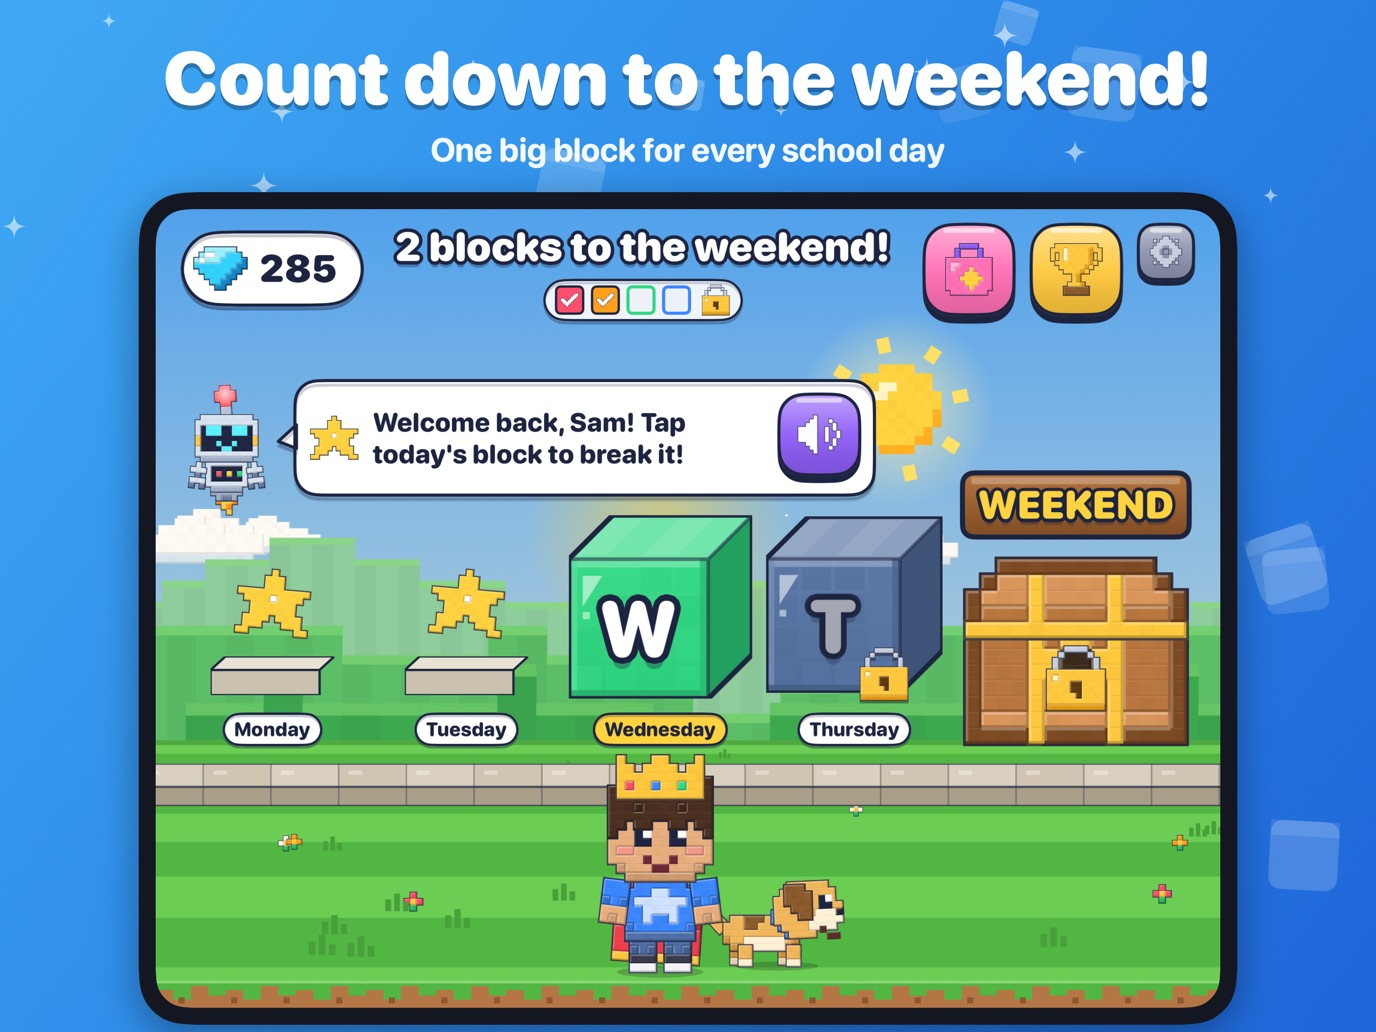
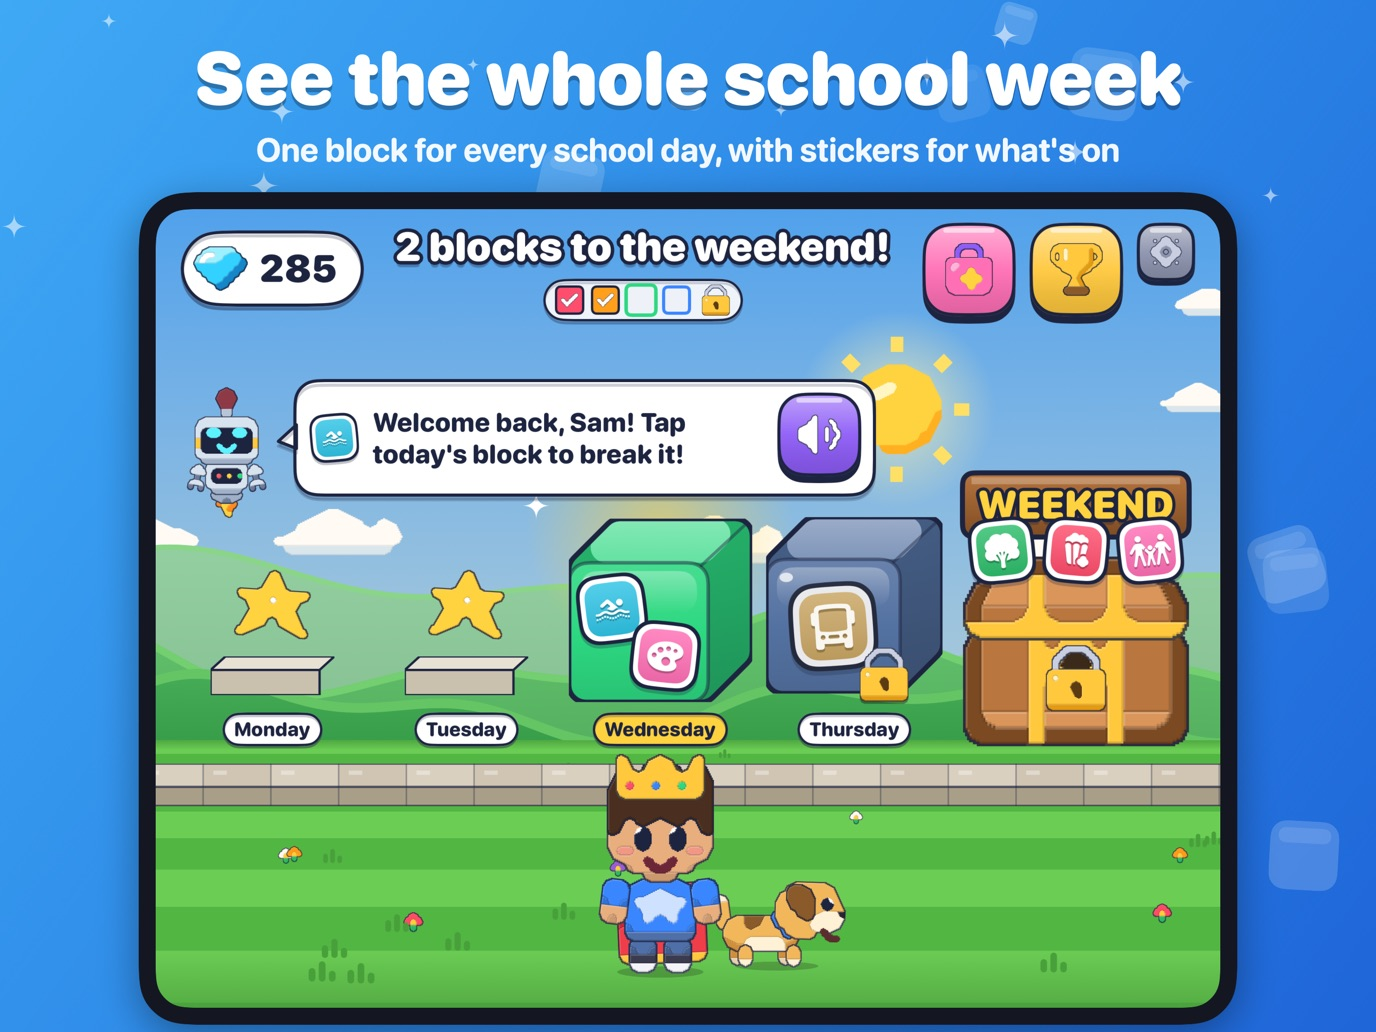
Update the site for Break the Week 1.1
Week planner, Zaki the robot coach, English and Arabic, new icon and screenshots.
The privacy policy now lists the planner's stickers among the data kept on the iPad.

diff --git a/index.html b/index.html
@@ -4,7 +4,7 @@
   <meta charset="utf-8">
   <meta name="viewport" content="width=device-width, initial-scale=1">
   <title>Break the Week</title>
-  <meta name="description" content="Break the Week is a weekend countdown for kids on iPad: smash one giant block every school day, collect gems and unlock a weekend party.">
+  <meta name="description" content="Break the Week is a visual school week for kids on iPad: one block for every school day, picture stickers for what's on, Zaki the robot reads it all aloud in English or Arabic, and the weekend chest opens when the week is done.">
   <link rel="icon" type="image/png" href="images/icon.png">
   <link rel="apple-touch-icon" href="images/icon.png">
   <link rel="stylesheet" href="style.css">
@@ -13,7 +13,7 @@
   <header class="hero">
     <img class="icon" src="images/icon.png" alt="Break the Week app icon" width="128" height="128">
     <h1>Break the Week</h1>
-    <p class="tagline">&ldquo;How many days until the weekend?&rdquo; Now kids can see the answer: one big block for every school day, and they get to smash it.</p>
+    <p class="tagline">&ldquo;Is it the weekend yet? What&rsquo;s happening at school today?&rdquo; Now kids can see the answer, hear it and tap it.</p>
     <nav class="top">
       <a href="support.html">Support</a>
       <a href="privacy.html">Privacy Policy</a>
@@ -22,24 +22,24 @@
 
   <main>
     <section>
-      <h2>A weekend countdown kids can play</h2>
-      <p>Each school day is a big, colorful voxel block on the Weekend Road. After school, your child grabs the golden Star Pick and taps today&rsquo;s block: it cracks, wobbles and shatters into a shower of cubes and gems. When the last block is gone, the weekend treasure chest bursts open with fireworks and a dance party.</p>
+      <h2>A visual school week for young children</h2>
+      <p>Every school day is a big, glossy block on the Weekend Road, with picture stickers for what happens that day: swimming, library, sports kit, a school trip. After school, your child taps today&rsquo;s block with the Star Hammer until it smashes into sparkles. When the last block is gone, the weekend chest opens with fireworks, a trophy and the family&rsquo;s weekend plans.</p>
       <div class="grid">
         <div class="feature blue">
-          <h3>See the week</h3>
-          <p>One block per school day shows how many days are left. A new row drops from the sky every week.</p>
-        </div>
-        <div class="feature orange">
-          <h3>Smash today&rsquo;s block</h3>
-          <p>Four taps, a big crash and flying gems. Everyone cheers.</p>
-        </div>
-        <div class="feature purple">
-          <h3>Unlock the weekend</h3>
-          <p>Fireworks, a treasure chest, Ember the baby dragon and a dance party.</p>
+          <h3>See the whole week</h3>
+          <p>One block per school day shows how many are left. A new row drops from the sky every week.</p>
         </div>
         <div class="feature green">
-          <h3>No reading needed</h3>
-          <p>Bolt the robot coach reads every message aloud, and there&rsquo;s a big repeat button.</p>
+          <h3>Plan it with stickers</h3>
+          <p>32 picture stickers for school days and weekends. Day stickers repeat like a timetable.</p>
+        </div>
+        <div class="feature purple">
+          <h3>Zaki reads it aloud</h3>
+          <p>A friendly robot coach speaks every message, with a big repeat button, for kids who can&rsquo;t read yet.</p>
+        </div>
+        <div class="feature orange">
+          <h3>English and العربية</h3>
+          <p>Fully bilingual: the app, the voice and the weekday names follow your iPad&rsquo;s language.</p>
         </div>
       </div>
     </section>
@@ -47,20 +47,21 @@
     <section>
       <h2>Screenshots</h2>
       <div class="shots">
-        <img src="images/01-home.jpg" alt="The Weekend Road with one block for each school day" loading="lazy">
-        <img src="images/02-shatter.jpg" alt="Today's block shattering into cubes and gems" loading="lazy">
-        <img src="images/03-party.jpg" alt="The weekend celebration with fireworks and a treasure chest" loading="lazy">
-        <img src="images/04-hero.jpg" alt="Making your own hero with big buttons" loading="lazy">
-        <img src="images/05-trophies.jpg" alt="The Trophy Room with weekly trophies and badges" loading="lazy">
-        <img src="images/06-shop.jpg" alt="The shop with hats, capes and worlds bought with gems" loading="lazy">
+        <img src="images/01-home.jpg" alt="The Weekend Road with a block for each school day and stickers for what happens on each day" loading="lazy">
+        <img src="images/03-planner.jpg" alt="The week planner with picture stickers like swimming, library and art" loading="lazy">
+        <img src="images/02-smash.jpg" alt="Tapping today's block with the Star Hammer" loading="lazy">
+        <img src="images/04-morning.jpg" alt="Zaki saying good morning and reading today's plan" loading="lazy">
+        <img src="images/05-party.jpg" alt="The weekend celebration with a trophy and the weekend plans" loading="lazy">
+        <img src="images/06-bilingual.jpg" alt="The app in Arabic" loading="lazy">
       </div>
     </section>
 
     <section>
-      <h2>Made for families</h2>
+      <h2>Made by a parent, for families</h2>
       <ul>
-        <li><strong>Grown-ups are in charge.</strong> A parental gate protects the Parent Zone, where you choose school and weekend days, add holidays, set an after-school time, and control sound, music and voice.</li>
-        <li><strong>Rewards that keep kids going.</strong> A trophy for every week, streaks, badges and a shop paid for with gems earned in the game.</li>
+        <li><strong>Why it exists.</strong> Break the Week was made for a six-year-old who asked &ldquo;Is it the weekend yet?&rdquo; every morning. It turns the school week into something a child can see and hold on to.</li>
+        <li><strong>Any school week.</strong> Monday to Friday, Sunday to Thursday or a Friday-to-Sunday weekend: you choose the school days.</li>
+        <li><strong>Grown-ups are in charge.</strong> A parental gate protects the Parent Zone: week planner, holidays, an after-school time, sound and voice.</li>
         <li><strong>Gentle by design.</strong> No timers and no fail states, and rewards are never taken away.</li>
         <li><strong>Private.</strong> No ads, no in-app purchases, no accounts, no tracking. It works completely offline, and nothing leaves the iPad.</li>
       </ul>

diff --git a/support.html b/support.html
@@ -33,12 +33,22 @@
 
       <details open>
         <summary>How does Break the Week work?</summary>
-        <p>Every school day is one big block on the Weekend Road. Tap today&rsquo;s glowing block four times with the Star Pick to crack and smash it. Each block pays out gems. When every school block of the week is broken, the weekend treasure chest opens and the celebration starts. A new row of blocks drops from the sky at the start of the next school week.</p>
+        <p>Every school day is one big block on the Weekend Road. Tap today&rsquo;s glowing block four times with the Star Hammer to crack and smash it. Each block pays out gems. When every school block of the week is broken, the weekend treasure chest opens and the celebration starts. A new row of blocks drops from the sky at the start of the next school week.</p>
       </details>
 
       <details>
         <summary>How do I open the Parent Zone?</summary>
         <p>On the Weekend Road, tap the small grey gear button in the top corner and answer the &ldquo;Grown-ups only&rdquo; multiplication question. Everything that changes the schedule or the progress is in the Parent Zone.</p>
+      </details>
+
+      <details>
+        <summary>How do I use the Week Planner?</summary>
+        <p>Parent Zone &rarr; <em>Week planner</em>. Tap a school day and pick up to three picture stickers (for example Swimming and Library). They appear on that day&rsquo;s block, Zaki reads them out in the morning, and tapping a coming day tells your child what&rsquo;s on and how many sleeps are left. Day stickers repeat every week like a timetable. <em>This weekend</em> holds the family&rsquo;s weekend plans; they show on the weekend chest and are just for the current week.</p>
+      </details>
+
+      <details>
+        <summary>Can my child use the app in Arabic?</summary>
+        <p>Yes. Break the Week is fully bilingual. It follows the iPad&rsquo;s language, or you can choose it for this app only in iPad <em>Settings &rarr; Break the Week &rarr; Language</em>. In Arabic the layout runs right to left and Zaki speaks Arabic.</p>
       </details>
 
       <details>
@@ -82,10 +92,10 @@
       </details>
 
       <details>
-        <summary>There&rsquo;s no sound, or Bolt&rsquo;s voice sounds robotic</summary>
+        <summary>There&rsquo;s no sound, or Zaki&rsquo;s voice sounds robotic</summary>
         <ul>
-          <li>Check the iPad volume and silent mode, then Parent Zone &rarr; <em>Sound and voice</em> (sound effects, music, Bolt&rsquo;s voice and voice speed).</li>
-          <li>For a more natural voice, go to iPad <em>Settings &rarr; Accessibility &rarr; Spoken Content &rarr; Voices</em> and download an Enhanced or Premium voice for your language.</li>
+          <li>Check the iPad volume and silent mode, then Parent Zone &rarr; <em>Sound and voice</em> (sound effects, music, Zaki&rsquo;s voice and voice speed).</li>
+          <li>For a more natural voice, go to iPad <em>Settings &rarr; Accessibility &rarr; Spoken Content &rarr; Voices</em> and download an Enhanced or Premium voice for your language (English or Arabic).</li>
         </ul>
       </details>
 

diff --git a/privacy.html b/privacy.html
@@ -22,7 +22,7 @@
 
   <main>
     <section>
-      <p class="muted">Last updated: September 30, 2026</p>
+      <p class="muted">Last updated: October 8, 2026</p>
       <p>This policy explains how <strong>Break the Week</strong> (&ldquo;the app&rdquo;), an iPad app for children published by Abdulrahman Qutaiba (&ldquo;we&rdquo;, &ldquo;us&rdquo;), handles information.</p>
       <p><strong>In short:</strong> the app doesn&rsquo;t collect, transmit, sell or share any personal information or usage data. Nothing you or your child enter ever leaves your iPad.</p>
 
@@ -34,13 +34,14 @@
       <ul>
         <li>your child&rsquo;s first name or nickname (optional, typed by a grown-up behind the parental gate);</li>
         <li>how your child&rsquo;s hero looks;</li>
+        <li>the Week Planner: the picture stickers chosen for each school day and the family&rsquo;s weekend plans;</li>
         <li>game progress: blocks broken, gems, trophies, badges, streaks, shop items and weekly history;</li>
         <li>settings: school days and weekend days, holidays, the optional after-school time, and sound, music and voice preferences.</li>
       </ul>
       <p>This information is never sent to us or to anyone else. It may be included in your own iCloud or computer backups of the iPad. Those backups are handled by Apple under your device settings and Apple&rsquo;s privacy policy.</p>
 
       <h3>3. Voice, sounds and device features</h3>
-      <p>Spoken messages come from Apple&rsquo;s built-in text-to-speech on the device, and all sounds and music are generated on the device. The app doesn&rsquo;t use the microphone, camera, location, contacts, photos or any other personal data on the iPad, and it doesn&rsquo;t ask for any of these permissions.</p>
+      <p>Spoken messages (in English or Arabic) come from Apple&rsquo;s built-in text-to-speech on the device, and all sounds and music are generated on the device. The app doesn&rsquo;t use the microphone, camera, location, contacts, photos or any other personal data on the iPad, and it doesn&rsquo;t ask for any of these permissions.</p>
 
       <h3>4. Children&rsquo;s privacy</h3>
       <p>Break the Week is made for children. We don&rsquo;t knowingly collect personal information from anyone, including children under 13 (as defined by the U.S. Children&rsquo;s Online Privacy Protection Act, COPPA) or children under 16 (as defined by the EU General Data Protection Regulation, GDPR). A parental gate (a multiplication question) protects the Parent Zone and the name entry. The app contains no ads, no purchases and no links to websites or social networks.</p>
